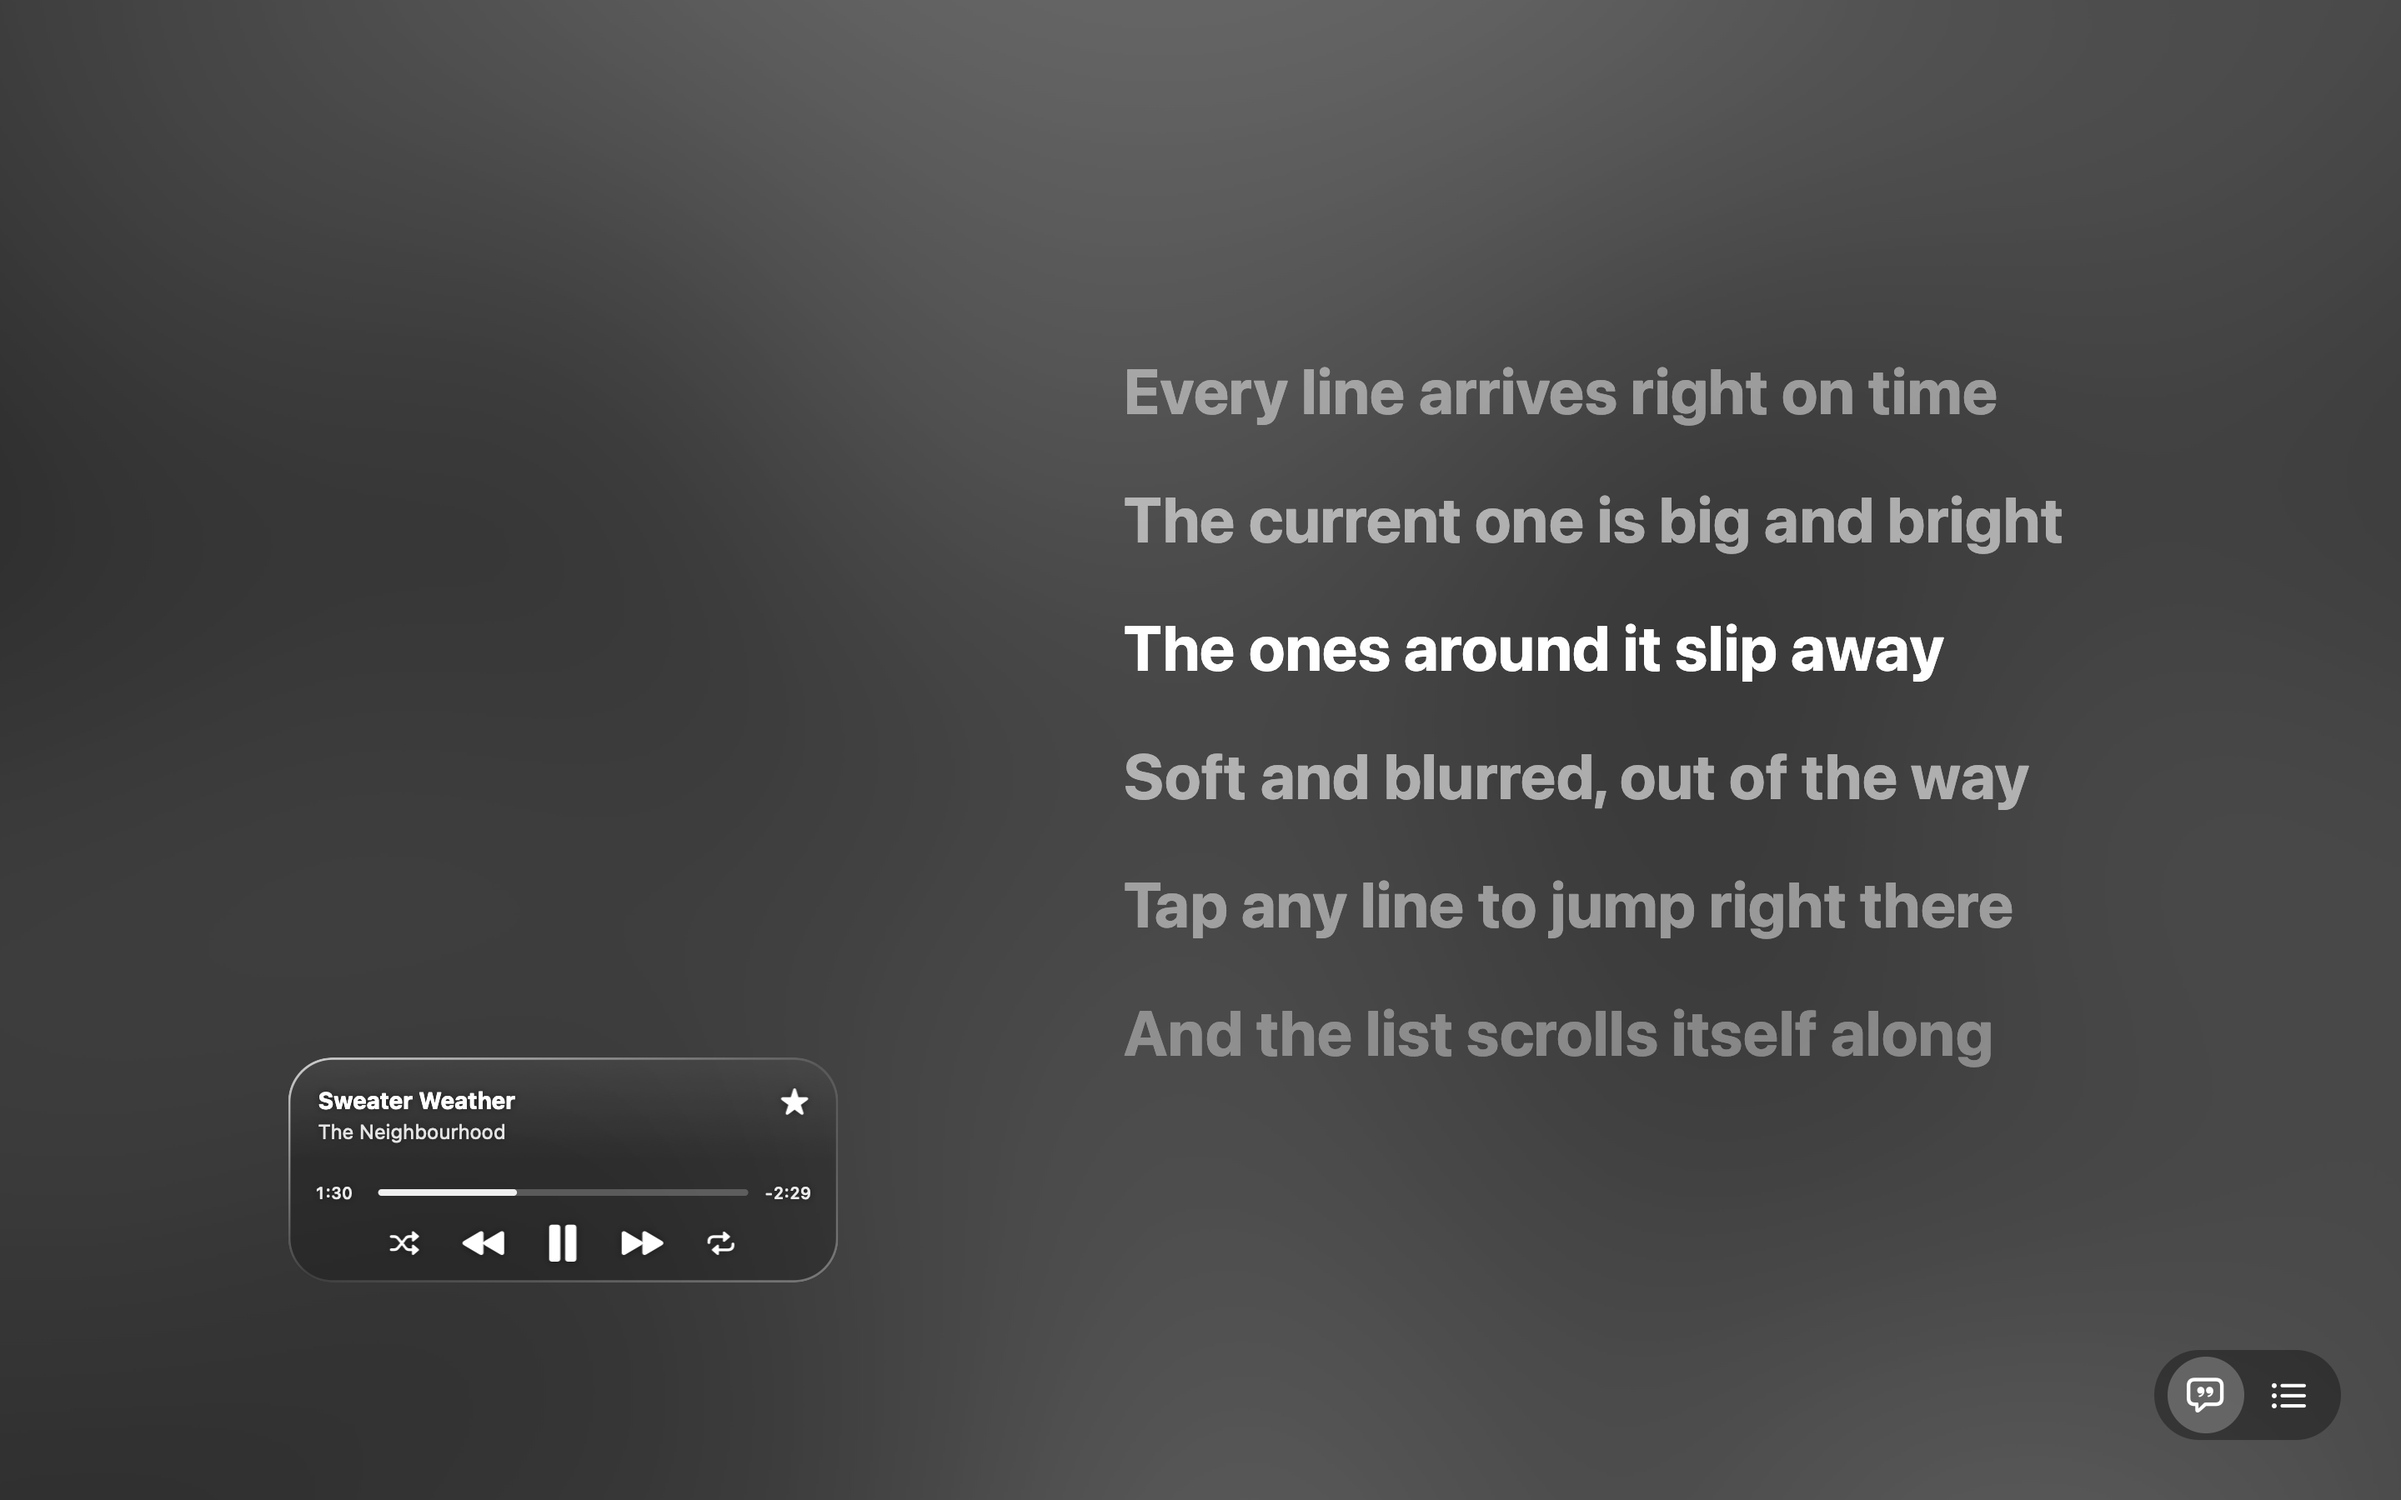
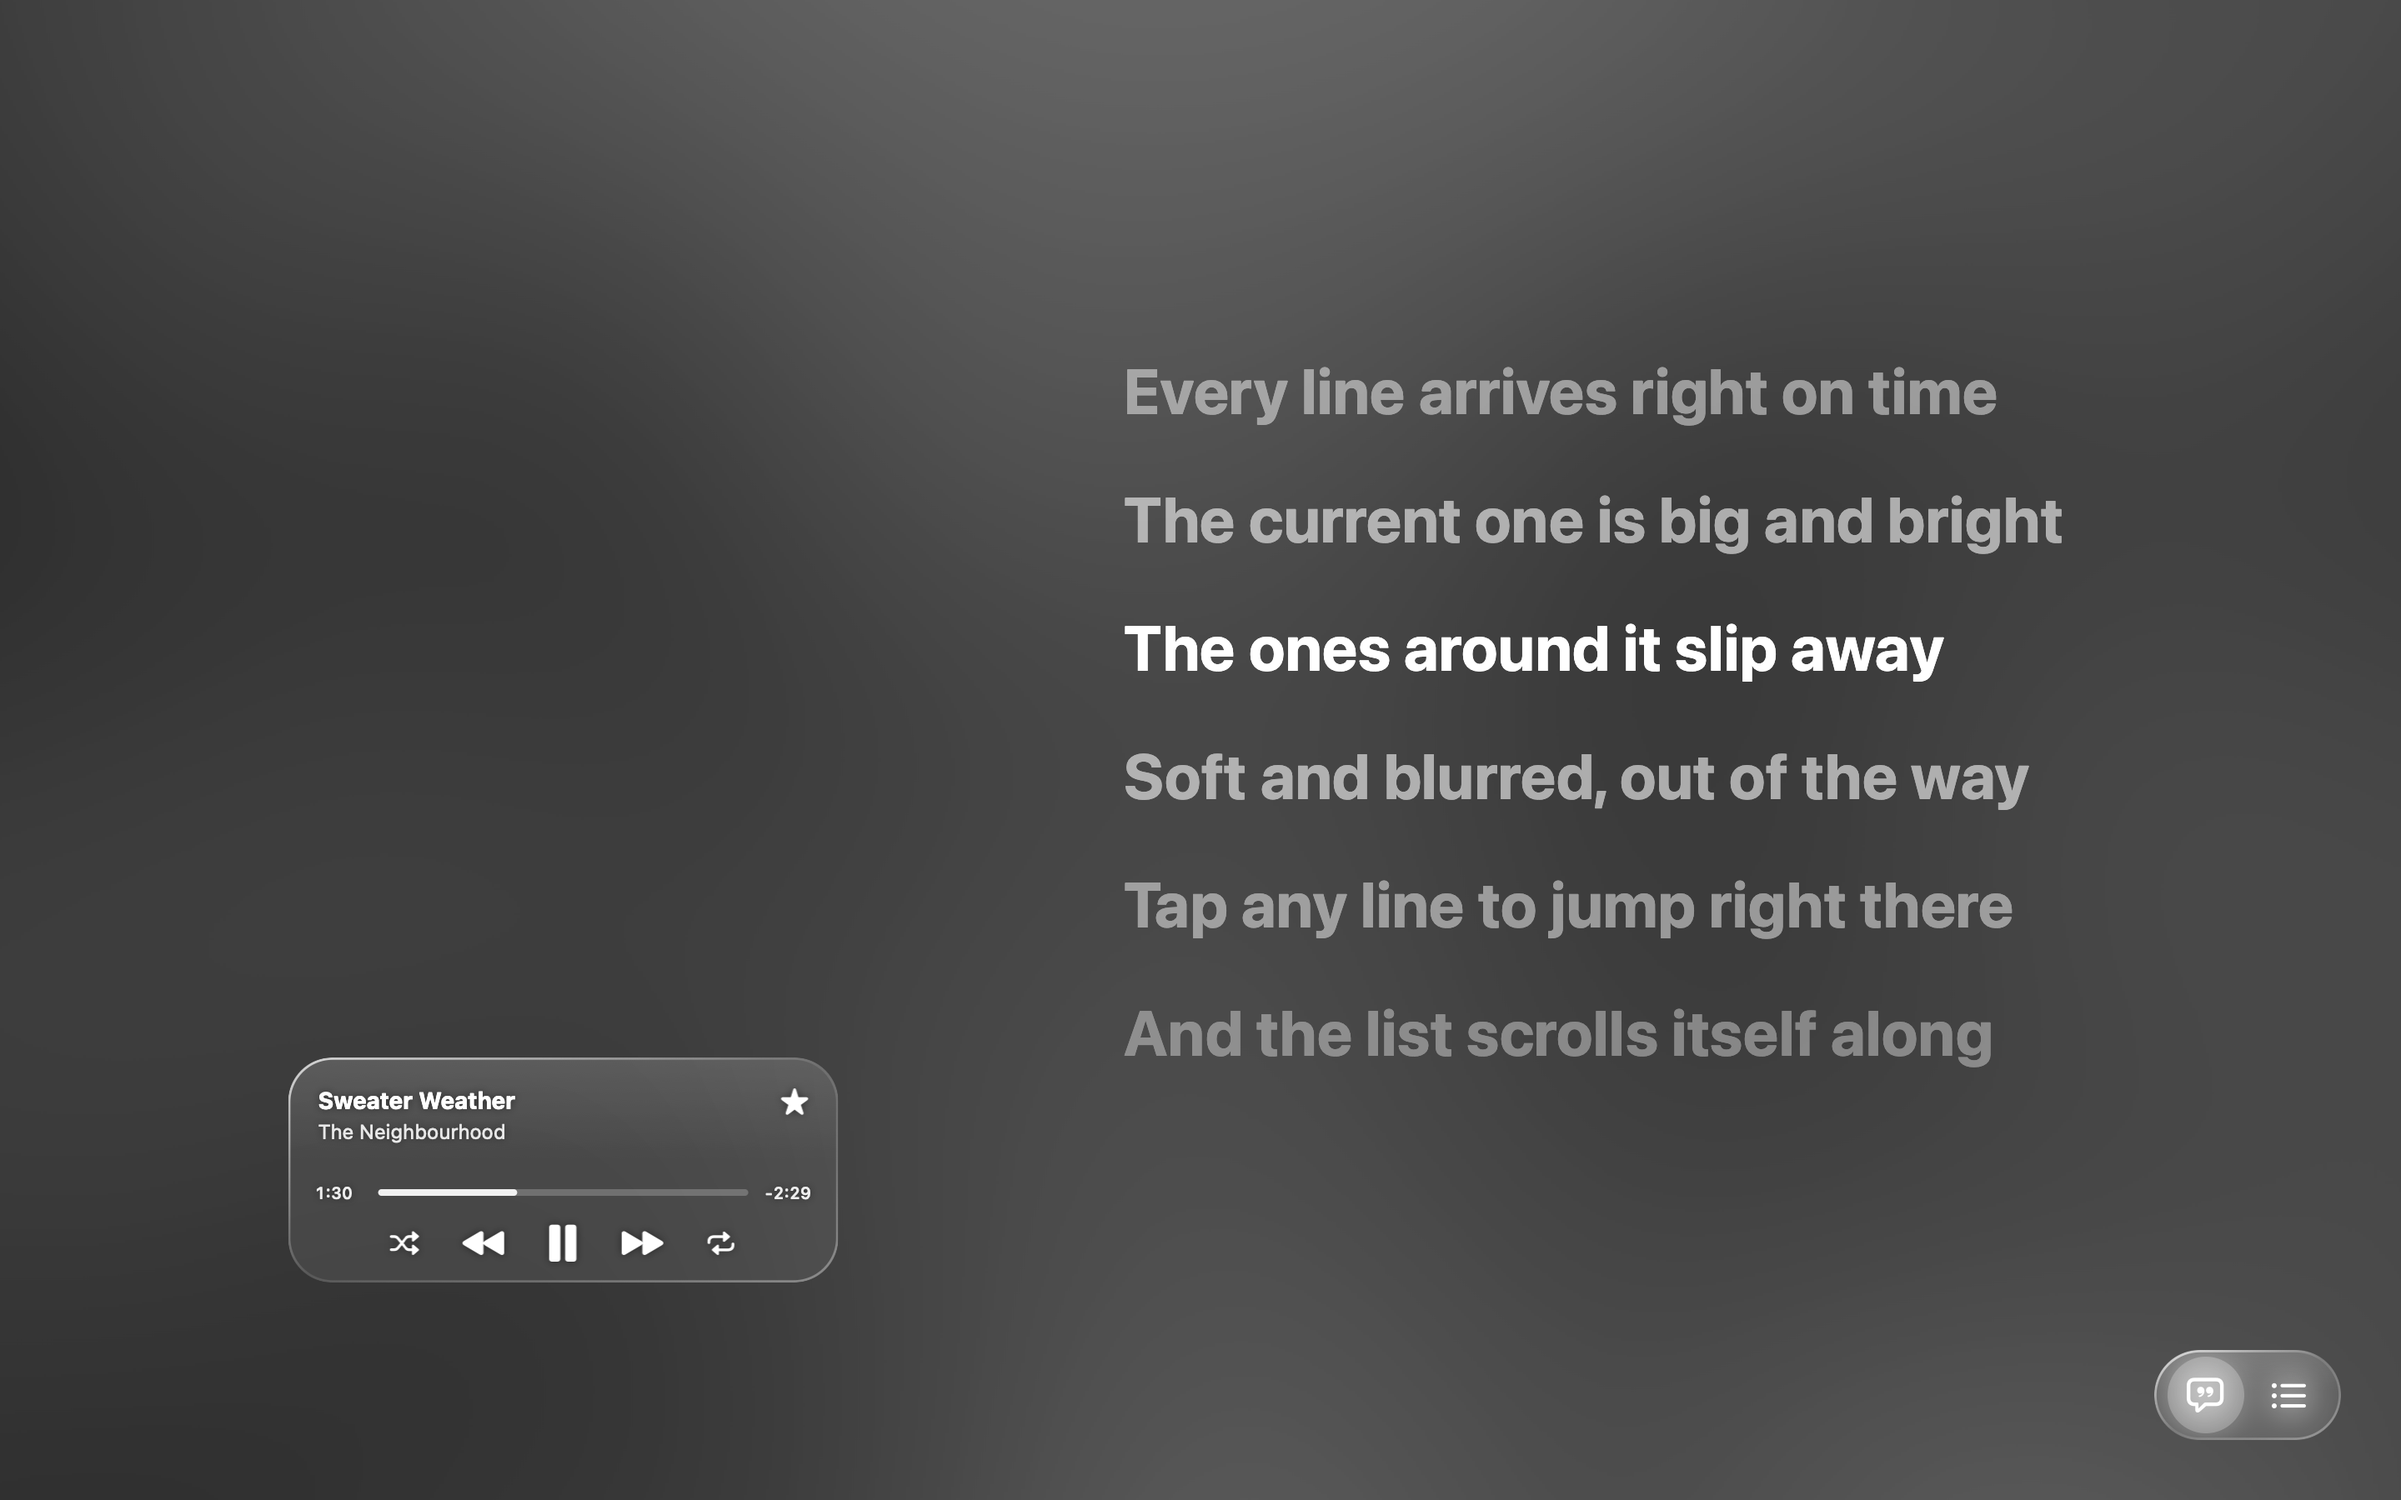
README images: real glass look for the card (blurred picture behind it), cache refreshed
The glass blur can't render offscreen, so the picture behind the card is blurred and brightened once and used as the glass background. Image links carry ?v=3 so GitHub shows the new files (the memory card now reads "~100 MB").

Changed region(s): [[0.0938, 0.6844, 0.375, 0.8711], [0.875, 0.9022, 1.0, 0.9644]]

diff --git a/Sources/LockScreen.swift b/Sources/LockScreen.swift
@@ -144,17 +144,45 @@ final class GlassBackground: NSView {
     }
     required init?(coder: NSCoder) { fatalError("init(coder:) is not used") }
 
-    /// README images only: the blur layer can't render offscreen (it comes out white), so it is left out and the tint is a little
-    /// stronger to stand in for the blur; the shine and the bright edge stay, so it still reads as glass.
-    func hideBlurForScreenshots() {
+    private var snap: CALayer?
+    private static let ci = CIContext()
+
+    /// README images only: the live blur layer can't render offscreen (it comes out white), so a picture of what lies behind the glass
+    /// (already blurred, see blurredCrop) takes its place; the tint, the shine and the bright edge stay on top.
+    func setScreenshotBackdrop(_ img: CGImage?) {
         backdrop?.isHidden = true
-        tint.backgroundColor = NSColor.black.withAlphaComponent(0.22).cgColor
+        snap?.removeFromSuperlayer(); snap = nil
+        guard let img else { tint.backgroundColor = NSColor.black.withAlphaComponent(0.22).cgColor; return }
+        let l = CALayer()
+        l.contents = img
+        l.contentsGravity = .resizeAspectFill
+        layer?.insertSublayer(l, at: 0)
+        snap = l
+        tint.backgroundColor = NSColor.black.withAlphaComponent(0.06).cgColor
+        needsLayout = true
+    }
+
+    /// The part of `full` (the whole picture, bottom-left origin, `scale` pixels per point) under `rect`, softly blurred, vivid and a
+    /// little brighter: what real Liquid Glass shows of the world behind it.
+    static func blurredCrop(_ full: CGImage, rect: NSRect, scale: CGFloat) -> CGImage? {
+        let img = CIImage(cgImage: full)
+        let crop = CGRect(x: rect.minX * scale, y: rect.minY * scale, width: rect.width * scale, height: rect.height * scale)
+        guard let blur = CIFilter(name: "CIGaussianBlur"), let color = CIFilter(name: "CIColorControls") else { return nil }
+        blur.setValue(img.clampedToExtent(), forKey: kCIInputImageKey)
+        blur.setValue(9 * scale, forKey: kCIInputRadiusKey)
+        guard let blurred = blur.outputImage else { return nil }
+        color.setValue(blurred, forKey: kCIInputImageKey)
+        color.setValue(1.55, forKey: kCIInputSaturationKey)
+        color.setValue(0.07, forKey: kCIInputBrightnessKey)
+        color.setValue(1.08, forKey: kCIInputContrastKey)
+        guard let out = color.outputImage?.cropped(to: crop) else { return nil }
+        return ci.createCGImage(out, from: crop)
     }
 
     override func layout() {
         super.layout()
         CATransaction.begin(); CATransaction.setDisableActions(true)
-        [backdrop, tint, shine, edge].compactMap { $0 }.forEach { $0.frame = bounds }
+        [backdrop, snap, tint, shine, edge].compactMap { $0 }.forEach { $0.frame = bounds }
         edgeMask.frame = bounds
         edgeMask.path = CGPath(roundedRect: bounds.insetBy(dx: 0.7, dy: 0.7), cornerWidth: radius, cornerHeight: radius, transform: nil)
         CATransaction.commit()
@@ -451,12 +479,12 @@ final class LockCardView: NSView {
     @objc private func favourite() { favB.pulse(1.3); media.toggleFavorite() }   // soft pop
 
     /// For the README images only: the glass blur can't render offscreen (it comes out white), so use a flat dark background.
-    func useFlatBackgroundForScreenshots(fullscreen on: Bool) {
+    func useFlatBackgroundForScreenshots(fullscreen on: Bool, snapshot: CGImage? = nil) {
         if on { fullscreen = true; layoutTexts(animated: false); cover.alphaValue = 0 }   // small cover away, text slid left, instantly
         glass.isHidden = true
         tint.isHidden = true
         liquid?.isHidden = false
-        (liquid as? GlassBackground)?.hideBlurForScreenshots()
+        (liquid as? GlassBackground)?.setScreenshotBackdrop(snapshot.flatMap { GlassBackground.blurredCrop($0, rect: frame, scale: 2) })
         layer?.borderWidth = 0
         applyTextShadow(true)
     }
@@ -803,16 +831,19 @@ final class LockBackdropView: ClickView {
         onModeChange?(m)
     }
 
-    /// README images only: opens a list with sample content, without animation. The glass can't render offscreen, so the pill is flat.
+    /// README images only: the corner buttons' glass gets the blurred picture behind it (see GlassBackground.setScreenshotBackdrop).
+    func applyScreenshotGlass(_ full: CGImage) {
+        guard !modePill.isHidden else { return }
+        pillGlass.setScreenshotBackdrop(GlassBackground.blurredCrop(full, rect: modePill.frame, scale: 2))
+    }
+
+    /// README images only: opens a list with sample content, without animation.
     func previewList(_ m: Mode, lyrics: [LyricLine], queue: [QueueItem]) {
         mode = m
         layoutContent()
         lyricsView.isHidden = m != .lyrics; queueView.isHidden = m != .queue
         [dateL, timeL, compactL].forEach { $0.alphaValue = 0 }
         shade.alphaValue = shadeLevel
-        pillGlass.isHidden = true
-        modePill.layer?.cornerRadius = 27
-        modePill.layer?.backgroundColor = NSColor.black.withAlphaComponent(0.35).cgColor
         updatePillSelection(animated: false)
         if m == .lyrics { lyricsView.set(.synced(lyrics)); lyricsView.setPosition(lyrics.count > 2 ? lyrics[2].time : 0) } else { queueView.set(queue) }
     }

diff --git a/Sources/Demo.swift b/Sources/Demo.swift
@@ -159,8 +159,10 @@ enum Demo {
         win.contentView = root
         let card = LockCardView(media: m)
         card.frame.origin = NSPoint(x: list == nil ? (size.width - LockCardView.size.width) / 2 : LockBackdropView.listColumnX(size.width), y: size.height * 0.22 - LockCardView.size.height / 2)
+        var backdropView: LockBackdropView?
         if fullscreen {
             let backdrop = LockBackdropView(media: m, frame: root.bounds)
+            backdropView = backdrop
             root.addSubview(backdrop)
             if let motionStill { backdrop.previewMotionStill(motionStill) } else { backdrop.show() }
             if let list {
@@ -177,17 +179,25 @@ enum Demo {
             t.frame = NSRect(x: 0, y: size.height * 0.62, width: size.width, height: 190)
             root.addSubview(t)
         }
+        let scale: CGFloat = 2
+        func bitmap() -> NSBitmapImageRep? {
+            root.layoutSubtreeIfNeeded()
+            win.displayIfNeeded()
+            guard let rep = NSBitmapImageRep(bitmapDataPlanes: nil, pixelsWide: Int(size.width * scale), pixelsHigh: Int(size.height * scale), bitsPerSample: 8,
+                                             samplesPerPixel: 4, hasAlpha: true, isPlanar: false, colorSpaceName: .deviceRGB, bytesPerRow: 0, bitsPerPixel: 0),
+                  let ctx = NSGraphicsContext(bitmapImageRep: rep) else { return nil }
+            ctx.cgContext.scaleBy(x: scale, y: scale)
+            root.layer?.render(in: ctx.cgContext)
+            return rep
+        }
+        // The glass blur can't render offscreen, so it is made here: the picture BEHIND the card (rendered without it) is blurred and
+        // brightened once, and that stands in for the blur layer, like real Liquid Glass bending what lies behind it.
+        let behind = bitmap()?.cgImage
         root.addSubview(card)
         card.setActive(true)
-        card.useFlatBackgroundForScreenshots(fullscreen: fullscreen)
-        root.layoutSubtreeIfNeeded()
-        win.displayIfNeeded()
-        let scale: CGFloat = 2
-        guard let rep = NSBitmapImageRep(bitmapDataPlanes: nil, pixelsWide: Int(size.width * scale), pixelsHigh: Int(size.height * scale), bitsPerSample: 8,
-                                         samplesPerPixel: 4, hasAlpha: true, isPlanar: false, colorSpaceName: .deviceRGB, bytesPerRow: 0, bitsPerPixel: 0),
-              let ctx = NSGraphicsContext(bitmapImageRep: rep) else { return nil }
-        ctx.cgContext.scaleBy(x: scale, y: scale)
-        root.layer?.render(in: ctx.cgContext)
+        card.useFlatBackgroundForScreenshots(fullscreen: fullscreen, snapshot: behind)
+        if let behind { backdropView?.applyScreenshotGlass(behind) }
+        guard let rep = bitmap() else { return nil }
         let img = NSImage(size: size)
         img.addRepresentation(rep)
         return img

diff --git a/README.md b/README.md
@@ -1,6 +1,6 @@
 <div align="center">
 
-<img src="assets/hero.png?v=2" alt="ORBT: album cover and waveform in the macOS menu bar" width="100%">
+<img src="assets/hero.png?v=3" alt="ORBT: album cover and waveform in the macOS menu bar" width="100%">
 
 <img src="assets/icon.png" width="128" alt="ORBT icon">
 
@@ -25,7 +25,7 @@ macOS shows a plain icon for Now Playing. ORBT shows the **real cover** instead,
 <img src="assets/menubar-paused.png" width="560" alt="Paused">
 <br><sub>Playing · Paused</sub>
 <br><br>
-<img src="assets/popover.png" width="360" alt="The player popover">
+<img src="assets/popover.png?v=3" width="360" alt="The player popover">
 </div>
 
 ## On the lock screen
@@ -33,10 +33,10 @@ macOS shows a plain icon for Now Playing. ORBT shows the **real cover** instead,
 A player card sits above the macOS lock screen: cover, title, seek bar, shuffle / previous / play / next / repeat and a favourite star. Click the small cover for fullscreen: a big cover with a soft colour wash, or, when Apple has made **moving artwork** for the album, the video fills the whole screen.
 
 <div align="center">
-<img src="assets/lockscreen-fullscreen.png" width="720" alt="Lock screen fullscreen with the big cover and the player card">
+<img src="assets/lockscreen-fullscreen.png?v=3" width="720" alt="Lock screen fullscreen with the big cover and the player card">
 <br><sub>Static cover: the big cover with a colour wash.</sub>
 <br><br>
-<img src="assets/lockscreen-moving.png" width="720" alt="Lock screen fullscreen with Apple's moving artwork filling the screen">
+<img src="assets/lockscreen-moving.png?v=3" width="720" alt="Lock screen fullscreen with Apple's moving artwork filling the screen">
 <br><sub>Moving artwork: the video fills the screen (a still frame is shown here).</sub>
 <br><br><sub>Rendered from the app's own views (the real lock screen shows your wallpaper and a glass blur behind the card).</sub>
 </div>
@@ -44,9 +44,9 @@ A player card sits above the macOS lock screen: cover, title, seek bar, shuffle 
 In fullscreen, two buttons in the bottom-right corner open **lyrics** (time-synced, the current line big and bright, tap a line to jump there) or the **queue**. Either button can be hidden in Settings.
 
 <div align="center">
-<img src="assets/lockscreen-lyrics.png" width="720" alt="Lock screen lyrics view with the cover and player card on the left and synced lyrics on the right">
+<img src="assets/lockscreen-lyrics.png?v=3" width="720" alt="Lock screen lyrics view with the cover and player card on the left and synced lyrics on the right">
 <br><br>
-<img src="assets/lockscreen-queue.png" width="720" alt="Lock screen queue view listing the next songs">
+<img src="assets/lockscreen-queue.png?v=3" width="720" alt="Lock screen queue view listing the next songs">
 <br><sub>Both images use placeholder text, not real lyrics or songs.</sub>
 </div>
 
@@ -65,7 +65,7 @@ In fullscreen, two buttons in the bottom-right corner open **lyrics** (time-sync
 Built to stay out of the way. Measured with `top` on an Apple Silicon MacBook (macOS 27) while a song was playing, with the popover and lock screen closed:
 
 <div align="center">
-<img src="assets/performance.png" width="720" alt="About 1% CPU while playing, under 1% while paused, about 100 MB memory">
+<img src="assets/performance.png?v=3" width="720" alt="About 1% CPU while playing, under 1% while paused, about 100 MB memory">
 </div>
 
 How: the waveform animates on the graphics side, the menu bar uses a small thumbnail of the cover, updates come from Music's own notifications, and the moving-artwork video is only buffered while the Mac is locked (about +25 MB while it plays; the CPU and memory numbers above were not re-measured with it playing). The memory figure was measured with `top` after launch and includes the lock screen windows (about 24 MB of it).
